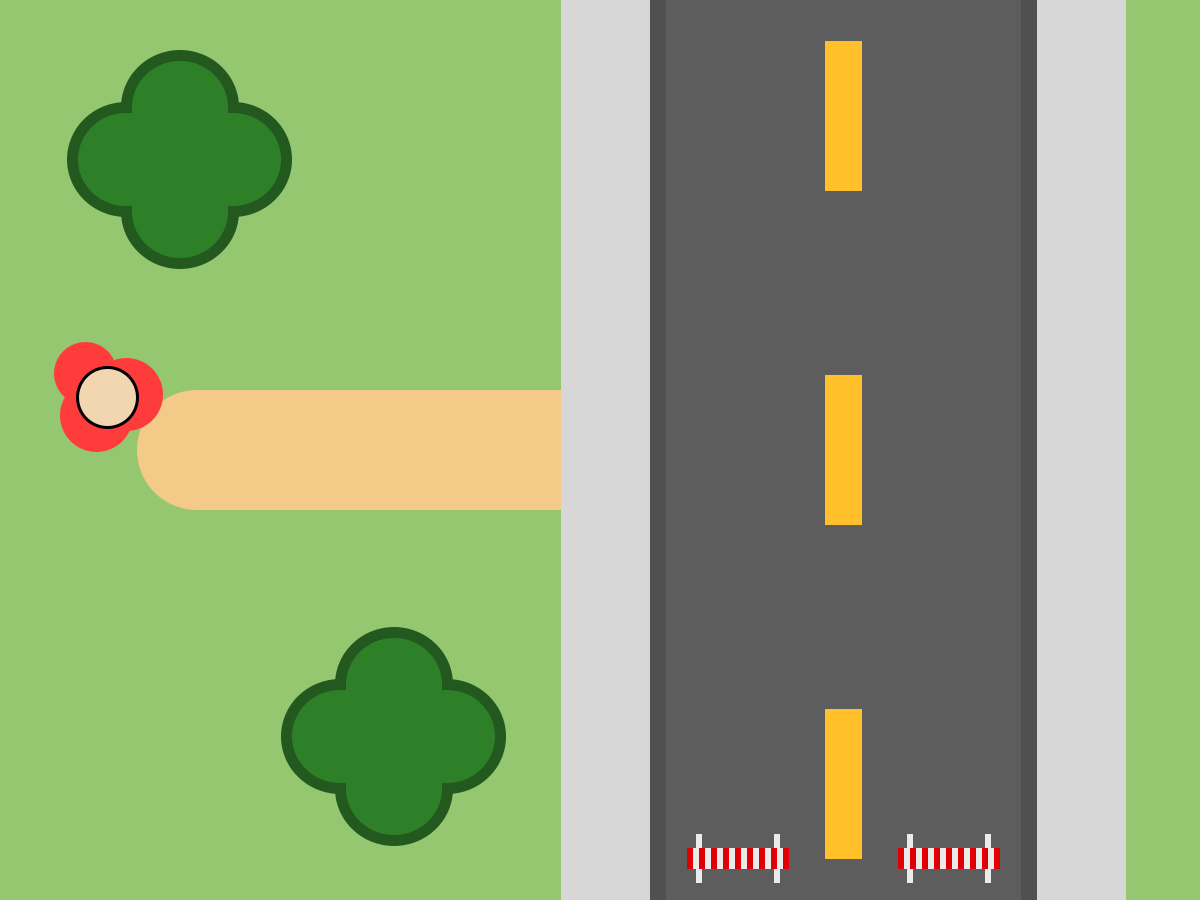
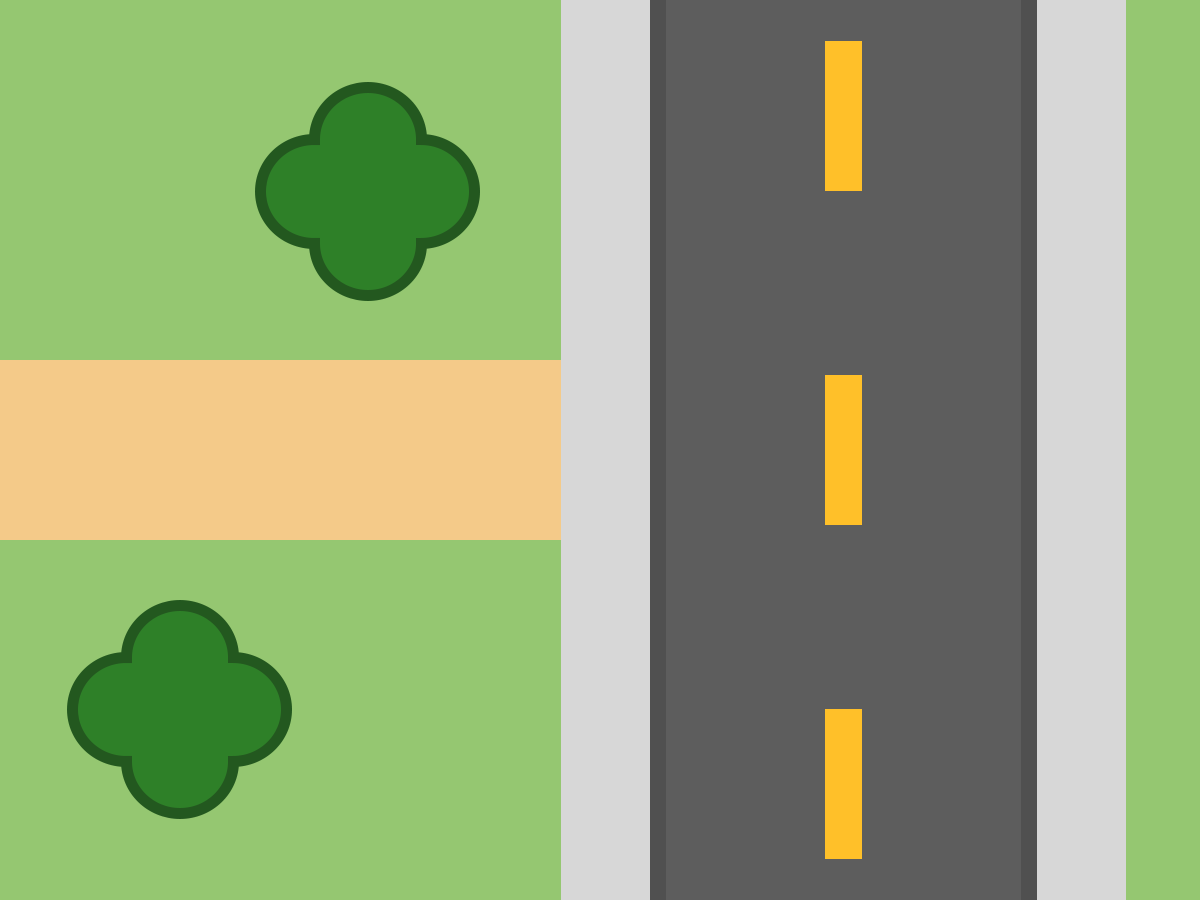
Added locked door system + NPC dialogue

diff --git a/sketch.js b/sketch.js
@@ -21,12 +21,22 @@ let gun;
 let key;
 let medkit;
 
+let npc;
+
+let npcDialogue1 = [
+    "Thanks for saving me! (E)",
+    "There are more people who need saving! (E)",
+    "Take this key, you might find it useful. (E)",
+    "Please, stay safe!"
+]
+
 let imgRoom1;
 let imgRoom2;
 let imgRoom3;
 let imgRoom4;
 let imgRoom5;
 let imgRoom6;
+let imgRoom7;
 
 let gameState;
 
@@ -39,6 +49,7 @@ function preload() {
     imgRoom4 = loadImage('assets/Room4.png');
     imgRoom5 = loadImage('assets/Room5.png');
     imgRoom6 = loadImage('assets/Room6.png');
+    imgRoom7 = loadImage('assets/Room7.png');
 }
 
 function setup() {
@@ -106,7 +117,8 @@ function draw() {
 
             if (!sceneSetup) {
                 exits.add(new Exit(0, 0, 5, height, 2, true));
-                exits.add(new Exit(width - 5, 0, 5, height, 4, true));
+                exits.add(new Exit(width - 5, 0, 5, height, 5, true));
+                exits.add(new Door(413, 151, 50, 20, 4, width / 2 - 15, height / 2 - 15 + 150, true));
                 walls.add(new Wall(346, 15, 185, 135));
                 walls.add(new Wall(98, 40, 111, 110));
                 walls.add(new Wall(45, 319, 111, 110));
@@ -127,9 +139,58 @@ function draw() {
             background(imgRoom4);
 
             if (!sceneSetup) {
+                exits.add(new Door(250, 405, 100, 30, 3, 423, 180, false));
+                walls.add(new Wall(0, 0, width, 45, true));
+                walls.add(new Wall(0, 0, 65, height, true))
+                walls.add(new Wall(width - 65, 0, 65, height, true));
+                walls.add(new Wall(65, height - 45, 190, 45, true));
+                walls.add(new Wall(345, height - 45, 190, 45, true));
+                walls.add(new Wall(65, 243, 42, 162, true));
+                walls.add(new Wall(65, 370, 155, 35, true));
+                walls.add(new Wall(65, 93, 155, 120, true));
+                walls.add(new Wall(85, 107, 33, 30, true));
+                walls.add(new Wall(85, 168, 33, 30, true));
+                walls.add(new Wall(157, 57, 30, 32, true));
+                walls.add(new Wall(420, 60, 96, 120, true));
+                walls.add(new Wall(490, 276, 30, 105, true));
+                walls.add(new Wall(375, 283, 20, 95, true));
+                walls.add(new Wall(375, 283, 61, 10, true));
+                walls.add(new Wall(375, 368, 61, 10, true));
+                walls.add(new Wall(370, 60, 37, 37, true));
+                zombies.add(new Zombie(275, 100, 30, 30, 60, 1));
+                zombies.add(new Zombie(155, 300, 30, 30, 60, 1));
+
+                npc = new NPC(445, 190, 30, 30, 0);
+
+                key = new Key(275, 310);
+
+                sceneSetup = true;
+            }
+
+            npc.draw();
+
+            if (zombies.size === 0) {
+                npc.speak(player, npcDialogue1);
+            }
+
+            if (npcDialogue1.length < 2) {
+                if (!player.getHasKey()) {
+                    key.draw();
+                }
+
+                if (key.collect(player)) {
+                    player.hasKey();
+                }
+            }
+
+            break;
+        case 5:
+            background(imgRoom5);
+
+            if (!sceneSetup) {
                 exits.add(new Exit(0, 0, 5, height, 3, true));
-                exits.add(new Exit(0, height - 5, width, 5, 5, false));
-                exits.add(new Exit(0, 5, width, 5, 6, false));
+                exits.add(new Exit(0, height - 5, width, 5, 6, false));
+                exits.add(new Exit(0, 0, width, 5, 7, false));
                 walls.add(new Wall(128, 41, 111, 110));
                 walls.add(new Wall(34, 300, 111, 110));
                 zombies.add(new Zombie(width / 2 + 100, height / 2 - 15 + 100, 30, 30, 60, 1));
@@ -138,11 +199,11 @@ function draw() {
             }
 
             break;
-        case 5:
-            background(imgRoom5);
+        case 6:
+            background(imgRoom6);
 
             if (!sceneSetup) {
-                exits.add(new Exit(0, 0, width, 5, 4, false));
+                exits.add(new Exit(0, 0, width, 5, 5, false));
                 zombies.add(new Zombie(width / 2 + 100, height / 2 - 15 + 100, 30, 30, 60, 1));
                 walls.add(new Wall(345, 425, 50, 10));
                 walls.add(new Wall(450, 425, 50, 10));
@@ -161,11 +222,11 @@ function draw() {
             }
 
             break;
-        case 6:
-            background(imgRoom6);
+        case 7:
+            background(imgRoom7);
 
             if (!sceneSetup) {
-                exits.add(new Exit(0, height - 5, width, 5, 4, false));
+                exits.add(new Exit(0, height - 5, width, 5, 5, false));
                 walls.add(new Wall(84, 260, 111, 110));
                 walls.add(new Wall(119, 41, 111, 110));
                 zombies.add(new Zombie(width / 2 + 100, 50 + 100, 30, 30, 60, 1));
@@ -219,7 +280,19 @@ function draw() {
     }
 
     for (let exit of exits) {
-        if (player.hit(exit)) {
+        //exit.drawRect();
+
+        if (exit.getIsDoor()) {
+            if (exit.open(player)) {
+                gameState = exit.getDestination();
+                player.setX(exit.getTpX());
+                player.setY(exit.getTpY());
+
+                clearSets();
+                sceneSetup = false;
+            }
+        }
+        else if (player.hit(exit)) {
             gameState = exit.getDestination();
             
             if (exit.getIsHorizontal()) {
@@ -257,5 +330,11 @@ function clearSets() {
 function mousePressed() {
     if (player.getActive() && player.getHasGun()) {
         bullets.add(new Bullet(player.getX() + 15, player.getY() + 15, 8, 8, mouseX, mouseY))
+    }
+}
+
+function keyPressed() {
+    if (player.hit(npc) && keyCode === 69) {
+        npcDialogue1.shift();
     }
 }

diff --git a/exit.js b/exit.js
@@ -15,8 +15,65 @@ class Exit extends GameObject {
     getIsHorizontal() {
         return this.#isHorizontal;
     }
+
+    getIsDoor() {
+        return false;
+    }
 }
 
 class Door extends Exit {
+    #isLocked;
+    #tpX;
+    #tpY;
     
+    constructor(x, y, width, height, destination, tpX, tpY, isLocked) {
+        super(x, y, width, height, destination);
+        this.#tpX = tpX;
+        this.#tpY = tpY;
+        this.#isLocked = isLocked;
+    }
+
+    open(player) {
+        if (this.hit(player) && this.#isLocked && !player.getHasKey()) {
+            noStroke();
+            textSize(15);
+            fill(255);
+            text('Door is locked', this.getX() - 20, this.getY() - 15);
+        }
+        else if (this.hit(player) && this.#isLocked && player.getHasKey()) {
+            noStroke();
+            textSize(15);
+            fill(255);
+            text('Unlock (E)', this.getX() - 8, this.getY() - 15);
+            if (keyIsDown(69)) {
+                player.hasNoKey();
+                this.unlockDoor();
+            }
+        }
+        else if (this.hit(player) && !this.#isLocked) {
+            return true;
+        }
+
+        return false;
+    }
+
+    getIsDoor() {
+        return true;
+    }
+
+    unlockDoor() {
+        this.#isLocked = false;
+    }
+
+    getIsLocked() {
+        return this.#isLocked;
+    }
+
+    getTpX() {
+        return this.#tpX;
+    }
+
+    getTpY() {
+        return this.#tpY;
+    }
 }

diff --git a/character.js b/character.js
@@ -163,3 +163,35 @@ class Zombie extends Character {
         }
     }
 }
+
+class NPC extends Character {
+    constructor(x, y, width, height, speed) {
+        super(x, y, width, height, speed)
+
+        this.setRectangle(80, 80);
+    }
+
+    draw() {
+        //this.drawRect();
+
+        ellipseMode(CORNER)
+        strokeWeight(2);
+        stroke(0);
+        fill(242, 213, 177);
+        circle(this.getX() + 25, this.getY() + 25, 30);
+
+        stroke(204, 0, 204);
+        rect(this.getX(), this.getY(), this.getWidth(), this.getHeight)
+    }
+
+    speak(player, dialogue) {
+        if (this.hit(player)) {
+            textAlign(CENTER, BOTTOM);
+            noStroke();
+            textSize(15);
+            fill(255);
+            text(dialogue[0], this.getX() - 60, this.getY() - 80, 200, 100);
+            textAlign(LEFT, BASELINE);
+        }
+    }
+}
